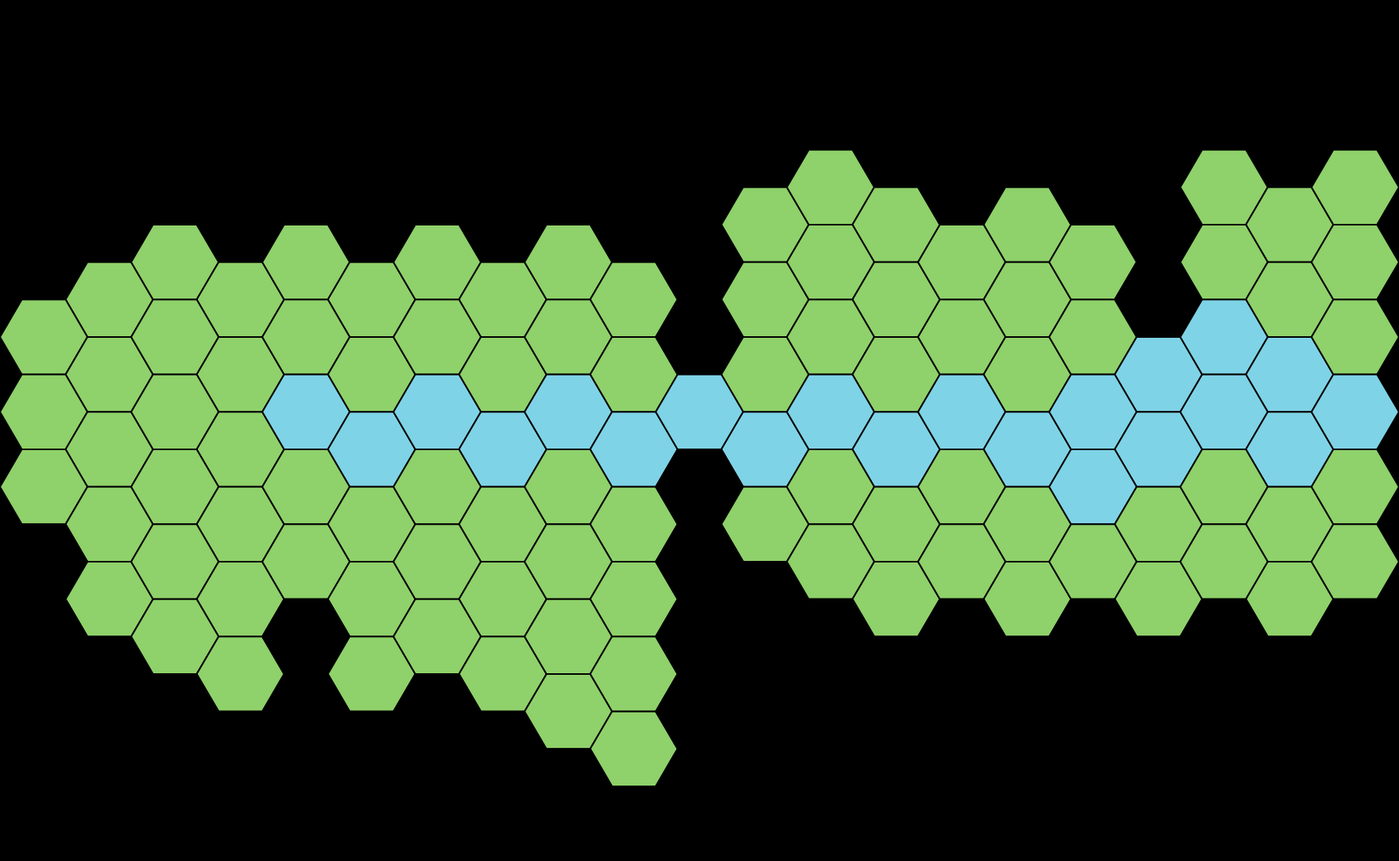
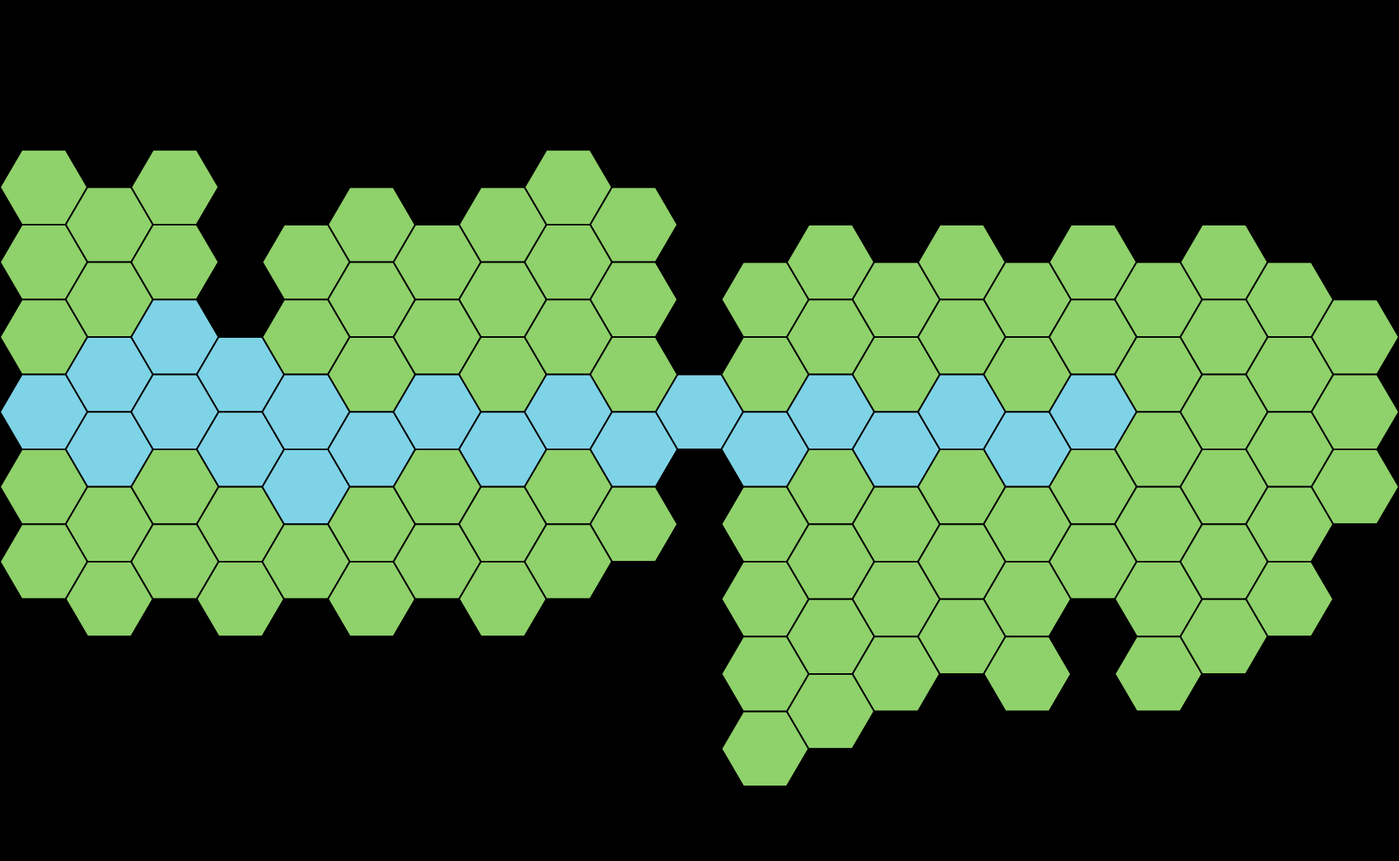
Su Altı Geçidi (yeralti-nehri): dünya yönüne aynalandı — görsel, webp, zemin tablosu, uçlar, gizli geçit tek commit
- Görsel (kullanıcı, 7f5ba86) + public/maps/col/yeralti-nehri.webp yeniden üretildi; önizleme ve prompt (npm run harita-referans).
- scripts/k32-yeralti-nehri.py AYNA: zemin, startZones (parti vaha/sağ, pusu orta) aynalı; harita/col/yeralti-nehri.json.
- data/seruven.json: uçlar aynalı (a Vaha sağ, b Mielikki sol), bayrak heykel-magarasi-kesfedildi, sureGun 0 (anında).
- seruven.ts linkFound/linkOpen: bayrakla iki yönde sınavsız, geri kilit yok; düğme 'Gizli geçit'.
- battleSave migrateFlippedMaps: eski yönde zeminli kayıtta yalnızca çizim bayrağı çevrilir (mekanik aynı).
- Test: src/journey/yeraltiAyna.test.ts. DECISIONS.md, CLAUDE.md; DENGE.md gece görüşü notu.
- typecheck, testler, build (ana parça 430,82 kB), check:harita 96/0, check:ses 15/0.

Claude-Session: https://claude.ai/code/session_01SsbfMzA823QzFotxpXSZKv

diff --git a/src/journey/yeraltiAyna.test.ts b/src/journey/yeraltiAyna.test.ts
@@ -1,0 +1,82 @@
+/**
+ * 2026-11-03: Yeraltı Nehri (Su Altı Geçidi) dünya haritası yönüne göre aynalandı: şelale ve taş yüz SOLDA (Orman /
+ * Mielikki Gölü), vaha kumu SAĞDA (Çöl). Zemin, başlangıç bölgeleri ve Serüven bağlantı uçları aynalı; şelale geçidi
+ * bayrağı bağlantıyı iki yönde açar; eski kayıtların çizimi `migrateFlippedMaps` ile eski yöne döner.
+ */
+import { describe, expect, it } from 'vitest';
+import { getMap } from '../map/maps';
+import { terrainOf } from '../map/terrain';
+import { executeSeruven, linkById, linkCrossable, linkOpen, type SeruvenCommand, type SeruvenState } from './seruven';
+import { linkSession } from '../app/seruvenBattle';
+import { migrateFlippedMaps } from '../app/battleSave';
+import { partyAt } from '../sim/balance';
+import type { BattleEvent } from '../battle';
+
+/** Aynalamadan önceki zemin (scripts/k32-yeralti-nehri.py `T`). */
+const ESKI = [
+  '#####################', '#####################', '###########...#.##...', '#.........#......#...', '..........#......nnn.',
+  '....nnnnnnnnnnnnnnnnn', '..........#.....n....', '#.........##.........', '##..#.....###########', '########..###########',
+  '#####################',
+];
+const m = getMap('yeralti-nehri');
+
+type G = { state: SeruvenState };
+const begin = (): G => {
+  const r = executeSeruven(null, { type: 'start', id: 's', seed: 1, toggles: { irkBaslangic: false }, party: partyAt(3).map((sh, i) => ({ id: `p${i + 1}`, name: sh.name, sheet: sh })) });
+  if (!r.ok) throw new Error(r.error);
+  return { state: r.state };
+};
+const step = (g: G, cmd: SeruvenCommand): G => { const r = executeSeruven(g.state, cmd); if (!r.ok) throw new Error(r.error); return { state: r.state }; };
+const atNode = (page: string, node: string, flags: string[] = [], pusu = false): SeruvenState => {
+  const g = pusu ? step(begin(), { type: 'set_toggle', key: 'koridorPususu', on: true }) : begin();
+  return { ...g.state, page, at: node, flags };
+};
+const link = linkById('yeralti-nehri')!;
+
+describe('Yeraltı Nehri aynalandı (Su Altı Geçidi)', () => {
+  it('zemin eski zeminin yatay aynası (21×11, odd-q tek sütun); parti bölgesi vaha tarafında (sağ), başlangıçlar geçilebilir', () => {
+    expect([m.size.cols, m.size.rows]).toEqual([21, 11]);
+    expect(m.tiles).toEqual(ESKI.map((r) => [...r].reverse().join('')));
+    expect(m.startZones.players.every((h) => h.col >= 18)).toBe(true);
+    for (const h of [...m.startZones.players, ...m.startZones.enemies]) expect(terrainOf(m.tiles[h.row]![h.col]!).movement).not.toBe('blocked');
+  });
+
+  it('bağlantı uçları: a (Vaha) sağda, b (Mielikki Gölü) solda; anında geçit (0 gün); keşif bayrağı şelale geçidi', () => {
+    expect(link.uclar.a.every(([c]) => c >= 19)).toBe(true);
+    expect(link.uclar.b.every(([c]) => c <= 3)).toBe(true);
+    expect([link.sureGun, link.bayrak]).toEqual([0, 'heykel-magarasi-kesfedildi']);
+    for (const [c, r] of [...link.uclar.a, ...link.uclar.b]) expect(terrainOf(m.tiles[r - 1]![c - 1]!).movement).not.toBe('blocked');
+  });
+
+  it('Orman\'dan giren şelale tarafında (sol), Çöl\'den giren vaha tarafında (sağ) başlar; çıkış karşı uçta', () => {
+    for (const [page, node, west] of [['orman', 'mielikki-golu', true], ['col', 'vaha', false]] as const) {
+      const s = linkSession(atNode(page, node, ['heykel-magarasi-kesfedildi']), 'yeralti-nehri', () => 0.5)!;
+      const party = Object.values(s.state.combatants).filter((c) => c.side === 'party' && c.pos);
+      expect(party.length).toBeGreaterThan(0);
+      expect(party.every((c) => (west ? c.pos!.col <= 2 : c.pos!.col >= 18))).toBe(true);
+      expect(s.state.explore!.exits.every((h) => (west ? h.col >= 18 : h.col <= 2))).toBe(true);
+    }
+  });
+
+  it('şelale geçidini bulan (bayrak) iki yönde sınavsız geçer, geri kilit uygulanmaz; bayraksız Orman ucunda kapalı', () => {
+    const found = atNode('orman', 'mielikki-golu', ['heykel-magarasi-kesfedildi']);
+    expect([linkOpen(found, link), linkCrossable(found, link)]).toEqual([true, true]);
+    const none = atNode('orman', 'mielikki-golu');
+    expect([linkOpen(none, link), linkCrossable(none, link)]).toEqual([false, false]);
+    expect(executeSeruven(atNode('col', 'vaha', ['heykel-magarasi-kesfedildi']), { type: 'link_check', link: 'yeralti-nehri', roll: 20 }).ok).toBe(false);
+  });
+
+  it('eski kayıt: zemini eski yönde olan savaşın çizim bayrağı çevrilir (görsel eski zemine oturur); yeni kayıt değişmez', () => {
+    const s = linkSession(atNode('col', 'vaha', ['heykel-magarasi-kesfedildi']), 'yeralti-nehri', () => 0.5)!;
+    const start = s.events.find((e) => e.type === 'battle_started') as Extract<BattleEvent, { type: 'battle_started' }>;
+    expect(migrateFlippedMaps([start])).toEqual([start]);
+    const old = { ...start, state: { ...start.state, map: { ...start.state.map!, tiles: [...ESKI], mirrored: false } } };
+    const [mig] = migrateFlippedMaps([old]) as Array<typeof start>;
+    expect(mig!.state.map!.mirrored).toBe(true);
+    expect(mig!.state.map!.tiles).toEqual(ESKI);
+    expect(getMap('yeralti-nehri', { mirrored: true }).tiles).toEqual(ESKI);
+    // Eski aynalı kayıt (zemini bugünkü yönde): bayrak kalkar.
+    const oldMirrored = { ...start, state: { ...start.state, map: { ...start.state.map!, mirrored: true } } };
+    expect((migrateFlippedMaps([oldMirrored]) as Array<typeof start>)[0]!.state.map!.mirrored).toBe(false);
+  });
+});

diff --git a/src/journey/seruven.ts b/src/journey/seruven.ts
@@ -40,6 +40,8 @@ export interface SeruvenLink {
   /** b → a yönü bu düğüm tamamlanmadan kapalı (Game Master "Serbest gezinti" açar). */ geriKilit?: string;
   /** Koridor haritasında uçların altıgenleri (1 tabanlı): a ucundan girilir, b ucunda çıkılır (ters yönde tersi). */
   uclar: { a: Array<[number, number]>; b: Array<[number, number]> };
+  /** Su Altı Geçidi: bu keşif bayrağı alınmışsa bağlantı sınavsız ve iki yönde açık (`geriKilit` uygulanmaz). */ bayrak?: string;
+  /** Yolculuk süresi (gün). 0 = anında geçit (Su Altı Geçidi; gün sayacı ilerlemez); > 0 düğmede gösterilir. */ sureGun?: number;
 }
 export interface SeruvenGate { x: number; y: number; requires: string[]; all?: boolean; to?: string }
 export interface SeruvenPage {
@@ -271,7 +273,7 @@ export function executeSeruven(state: SeruvenState | null, cmd: SeruvenCommand):
     case 'link_check': {
       const link = linkById(cmd.link);
       if (!link || !linkAt(state, link)) return fail('Burada bağlantı yok.');
-      if (state.links?.includes(link.id)) return fail('Bağlantı zaten açık.');
+      if (linkOpen(state, link)) return fail('Bağlantı zaten açık.');
       if (!state.done.includes(nodeKey(link.a.page, link.a.node))) return fail('Önce bu düğümü tamamla.');
       if (state.linkTry?.[link.id] !== undefined && (state.rests ?? 0) <= (state.linkTry[link.id] ?? 0)) return fail('Yeniden denemek için uzun dinlenme gerekir.');
       if (toggleOn(state, 'yeraltiNehriAc')) return done(state, [{ type: 'seruven_link_checked', link: link.id, total: 0, dc: link.dc, success: true, by: '' }]);
@@ -387,11 +389,17 @@ export const linkById = (id: string): SeruvenLink | undefined => (SERUVEN.baglan
 /** Parti bu bağlantının bir ucunda mı. */
 export const linkAt = (s: SeruvenState, l: SeruvenLink): boolean =>
   (s.page === l.a.page && s.at === l.a.node) || (s.page === l.b.page && s.at === l.b.node);
+/** Su Altı Geçidi: bağlantının keşif bayrağı alınmış mı. */
+export const linkFound = (s: SeruvenState, l: SeruvenLink): boolean => !!l.bayrak && s.flags.includes(l.bayrak);
+/** Bağlantı açık mı: beceri sınavıyla bulunmuş ya da keşif bayrağı alınmış. */
+export const linkOpen = (s: SeruvenState, l: SeruvenLink): boolean => !!s.links?.includes(l.id) || linkFound(s, l);
 /** Bulunulan düğümdeki bağlantılar. */
 export const linksHere = (s: SeruvenState): SeruvenLink[] => (SERUVEN.baglantilar ?? []).filter((l) => linkAt(s, l));
 /** Bağlantıdan geçilebilir mi: açık, partinin bulunduğu uçta; b → a yönü `geriKilit` tamamlanmadan kapalı (Serbest gezinti açar). */
 export function linkCrossable(s: SeruvenState, l: SeruvenLink): boolean {
-  if (!s.links?.includes(l.id) || !linkAt(s, l)) return false;
+  if (!linkOpen(s, l) || !linkAt(s, l)) return false;
+  // Su Altı Geçidi: şelale geçidinden keşfedilen bağlantı iki yönde açık.
+  if (linkFound(s, l)) return true;
   const back = s.page === l.b.page && s.at === l.b.node;
   return !back || !l.geriKilit || s.done.includes(l.geriKilit) || toggleOn(s, 'serbestGezinti');
 }

diff --git a/src/screens/SeruvenScreen.tsx b/src/screens/SeruvenScreen.tsx
@@ -6,7 +6,7 @@
  */
 import { useEffect, useMemo, useRef, useState } from 'react';
 import {
-  SERUVEN, TOGGLE_KEYS, executeSeruven, gateOpen, prevPage, levelXp, linkCrossable, linksHere, nodeKey, nodeOpen, nodeStop, nodeVisible, pageById, pageOrder, toggleOn,
+  SERUVEN, TOGGLE_KEYS, executeSeruven, gateOpen, prevPage, levelXp, linkCrossable, linkFound, linkOpen, linksHere, nodeKey, nodeOpen, nodeStop, nodeVisible, pageById, pageOrder, toggleOn,
   type SeruvenCommand, type SeruvenEvent, type SeruvenNode, type SeruvenPage, type SeruvenState,
 } from '../journey/seruven';
 import { seferById } from '../journey/sefer';
@@ -251,7 +251,7 @@ export function PageView(props: { state: SeruvenState; run: (c: SeruvenCommand) 
             disabled={!gateOpen(state, page, page.portal) || walking} onClick={(e) => { e.stopPropagation(); go('portal'); }}>◎</button>
         )}
         {/* Kuyruk 32: açık bağlantının (yeraltı nehri) uçlarında su damlası. */}
-        {(SERUVEN.baglantilar ?? []).filter((l) => state.links?.includes(l.id)).flatMap((l) => [l.a, l.b]).filter((u) => u.page === page.id).map((u) => {
+        {(SERUVEN.baglantilar ?? []).filter((l) => linkOpen(state, l)).flatMap((l) => [l.a, l.b]).filter((u) => u.page === page.id).map((u) => {
           const n = page.nodes.find((x) => x.id === u.node);
           return n ? <span key={`su-${u.node}`} className="seruven-deco water" style={pct({ x: n.x + 0.03, y: n.y - 0.05 })} aria-hidden="true">💧</span> : null;
         })}
@@ -392,13 +392,13 @@ function LinkActions(props: { state: SeruvenState; run: (c: SeruvenCommand) => b
   return (
     <>
       {linksHere(state).map((l) => {
-        const open = state.links?.includes(l.id);
+        const open = linkOpen(state, l);
         const aDone = state.done.includes(nodeKey(l.a.page, l.a.node));
         const tried = state.linkTry?.[l.id];
         const wait = tried !== undefined && (state.rests ?? 0) <= tried;
         if (open) {
           return linkCrossable(state, l)
-            ? <p key={l.id}><button type="button" className="cta" onClick={() => props.onBattle(`link:${l.id}`)}>{S.riverGo}</button></p>
+            ? <p key={l.id}><button type="button" className="cta" onClick={() => props.onBattle(`link:${l.id}`)}>{linkFound(state, l) ? S.secretPass : S.riverGo}{l.sureGun ? ` ${S.riverDays(l.sureGun)}` : ''}</button></p>
             : <p key={l.id} className="mute">{S.riverBack}</p>;
         }
         if (!aDone || state.page !== l.a.page) return null;

diff --git a/src/app/battleSave.ts b/src/app/battleSave.ts
@@ -4,6 +4,7 @@
  * JSON ya da oynatılamayan günlük hata fırlatmaz, "yüklenemedi" sonucu döner.
  */
 import { replay, type BattleEvent } from '../battle';
+import { getMap } from '../map/maps';
 import { createSession, type Session } from '../ui/session';
 import { externalSubclasses } from '../rules/subclasses';
 
@@ -59,13 +60,34 @@ export function restoreSession(text: string | null): Restored {
     const file = JSON.parse(text) as Partial<SaveFile>;
     if (!LOADABLE_VERSIONS.includes(file.version as number)) return { ok: false, error: `Kayıt yüklenemedi: sürüm ${String(file.version)} desteklenmiyor.` };
     if (!Array.isArray(file.events) || file.events.length === 0) return { ok: false, error: 'Kayıt yüklenemedi: olay günlüğü boş.' };
-    const state = replay(file.events);
+    const events = migrateFlippedMaps(file.events);
+    const state = replay(events);
     const loaded = new Set(externalSubclasses().map((s) => s.pack));
     const missing = (Array.isArray(file.content) ? file.content : []).filter((id) => !loaded.has(id));
-    return { ok: true, session: createSession(state, file.events), savedAt: file.savedAt ?? '', ...(missing.length ? { missingContent: missing } : {}) };
+    return { ok: true, session: createSession(state, events), savedAt: file.savedAt ?? '', ...(missing.length ? { missingContent: missing } : {}) };
   } catch {
     return { ok: false, error: 'Kayıt yüklenemedi: dosya bozuk.' };
   }
+}
+
+/**
+ * 2026-11-03 (Su Altı Geçidi): harita JSON'u yerinde aynalandıysa (`yeralti-nehri`, `yonCevrildi`) eski kayıtta başlangıç
+ * zemini haritanın kaydedilen yöndeki zeminiyle değil ters yöndekiyle tutar. Zemin ve kurallar olaydan oynar (mekanik
+ * aynı); yalnızca çizim bayrağı (`map.mirrored`: görsel CSS çevirisi ve `getMap` örtüleri) çevrilir ki görsel eski zemine
+ * otursun. Yeni kayıt ve zemini tutan kayıt değişmez.
+ */
+export function migrateFlippedMaps(events: BattleEvent[]): BattleEvent[] {
+  return events.map((e) => {
+    if (e.type !== 'battle_started' || !e.state.map) return e;
+    const m = e.state.map;
+    try {
+      const same = (o: boolean) => getMap(m.id, { variantId: m.variantId, mirrored: o }).tiles.join('\n') === m.tiles.join('\n');
+      if (same(m.mirrored) || !same(!m.mirrored)) return e;
+      return { ...e, state: { ...e.state, map: { ...m, mirrored: !m.mirrored } } };
+    } catch {
+      return e;
+    }
+  });
 }
 
 /** Kaydeder; depolama yoksa ya da doluysa false. */

diff --git a/src/i18n/strings.en.ts b/src/i18n/strings.en.ts
@@ -656,7 +656,7 @@ export const en: Strings = {
     collarOn: 'Spell-suppressing collar', collarHelp: 'No spellcasting; class features work. The key is in the warden\'s tower, or the White City temple removes it.',
     hubTemple: 'Temple', collarPay: (n: number) => `Remove the collar (${n} gold)`, collarServe: 'Serve the temple (collar removed, time passes)',
     crimeJob: 'the job', crimeRaid: 'guard raid', crimeStart: 'Start the job', crimeResist: 'Resist the raid', crimeSurrender: 'Surrender', soon: 'Coming soon', soonNote: 'Settlement: no battle map yet (filled in a later task). The road passes through.', soonGm: 'Game Master note: the settlement card arrives in Queue 34.',
-    riverFind: (dc: number) => `Search for the underground river (Survival or Nature, DC ${dc})`, riverGo: 'Go down the underground river', riverRest: 'A long rest is needed before trying again.',
+    riverFind: (dc: number) => `Search for the underground river (Survival or Nature, DC ${dc})`, riverGo: 'Go down the underground river', riverRest: 'A long rest is needed before trying again.', riverDays: (n: number) => `(${n} days)`, secretPass: 'Secret passage',
     riverBack: 'The river path is closed this way (finish the Swamp first).',
     menu: 'Adventure', menuDesc: 'Travel the continent east to west page by page; fight at nodes with a lasting party. No Game Master needed.',
     title: 'Adventure', start: 'Begin the adventure', party: 'Party', none: 'Create characters on the Player screen first.', unavailable: 'cannot fight',

diff --git a/src/i18n/strings.ts b/src/i18n/strings.ts
@@ -489,7 +489,7 @@ const tr = {
     collarOn: 'Büyü bastırıcı tasma', collarHelp: 'Büyü yapılamaz; sınıf özellikleri çalışır. Anahtarı müdür kulesinde ya da Beyaz Şehir tapınağında çıkar.',
     hubTemple: 'Tapınak', collarPay: (n: number) => `Tasmayı çıkar (${n} altın)`, collarServe: 'Tapınağa hizmet et (tasma çıkar, zaman geçer)',
     crimeJob: 'iş', crimeRaid: 'muhafız baskını', crimeStart: 'İşe başla', crimeResist: 'Baskına karşı koy', crimeSurrender: 'Teslim ol', soon: 'Yakında', soonNote: 'Yerleşim: savaş haritası henüz yok (sonraki görevde dolacak). Yol buradan geçer.', soonGm: 'Game Master notu: yerleşim kartı Kuyruk 34’te dolacak.',
-    riverFind: (dc: number) => `Yeraltı nehri girişini ara (Hayatta Kalma ya da Doğa, DC ${dc})`, riverGo: 'Yeraltı nehrine in', riverRest: 'Yeniden denemek için uzun dinlenme gerekir.',
+    riverFind: (dc: number) => `Yeraltı nehri girişini ara (Hayatta Kalma ya da Doğa, DC ${dc})`, riverGo: 'Yeraltı nehrine in', riverRest: 'Yeniden denemek için uzun dinlenme gerekir.', riverDays: (n: number) => `(${n} gün)`, secretPass: 'Gizli geçit',
     riverBack: 'Nehir yolu bu yönde kapalı (önce Bataklık).',
     menu: 'Serüven', menuDesc: 'Kıtayı doğudan batıya sayfa sayfa gez; düğümlerde savaş, parti durumu kalıcı. Game Master gerekmez.',
     title: 'Serüven', start: 'Serüvene başla', party: 'Parti', none: 'Önce Oyuncu ekranında karakter oluşturun.', unavailable: 'savaşamaz',

diff --git a/src/map/maps.ts b/src/map/maps.ts
@@ -85,6 +85,8 @@ export interface RawMap {
   /** Kuyruk 16 K16B: test/vitrin haritası (seçicide ayrı grup; denge ölçümlerine katılmaz). */
   /** Kuyruk 25: seçicide gizli. */
   gizli?: boolean;
+  /** 2026-11-03: JSON yerinde aynalandı (tarih); eski kayıtların çizim göçü `migrateFlippedMaps`. */
+  yonCevrildi?: string;
   /** Kuyruk 41b: yalnızca 1–5. seviye senaryosu: "Üst seviye" açıkken seçicide ve Serüven listesinde gizli. */
   ustSeviyeGizli?: boolean;
   vitrin?: boolean;

diff --git a/scripts/k32-yeralti-nehri.py b/scripts/k32-yeralti-nehri.py
@@ -2,6 +2,9 @@
 # 0 tabanlı etiketli ızgarasından (scripts/harita-etiket.ts) elle okundu: # kaya/boşluk (duvar), . kuru kıyı ve kum havuzu,
 # n sığ nehir (turkuaz şerit; taş basamaklar da n: sığ su zorlu zemin), sütun 10–11'de dar boğaz. Batı uç Vaha (Çöl) tarafı, doğu uç
 # Mielikki Gölü (Orman) tarafı. Gece varyantı yok, kısıtlı görüş yok. Serüven'e özel (seçicide gizli).
+# 2026-11-03: görsel dünya haritasındaki yöne göre aynalandı (şelale ve taş yüz SOLDA = Orman, vaha kumu SAĞDA = Çöl). Aşağıdaki T
+# ve konumlar eski (aynalanmamış) görselden okundu; yazılırken AYNA ile yatayda çevrilir (odd-q, 21 tek sütun: c → 20 − c). JSON'daki
+# `yonCevrildi` eski kayıtların çizim göçü içindir (src/app/battleSave.ts).
 import json, os
 ROOT = os.path.join(os.path.dirname(os.path.abspath(__file__)), '..')
 T = [
@@ -18,7 +21,9 @@ T = [
   "#####################",  # 10
 ]
 assert all(len(r) == 21 for r in T) and len(T) == 11
-def one(c, r): return [c + 1, r + 1]
+AYNA = True
+COLS = 21
+def one(c, r): return [(COLS - c) if AYNA else c + 1, r + 1]
 west = [one(c, r) for c, r in [(0, 4), (0, 5), (1, 4), (1, 5), (0, 6), (1, 6), (2, 4), (2, 6)]]
 east = [one(c, r) for c, r in [(20, 3), (20, 4), (20, 6), (19, 3), (19, 6), (20, 7), (19, 7), (18, 6)]]
 mid = [one(c, r) for c, r in [(13, 3), (14, 3), (13, 4), (14, 4), (13, 6), (14, 6), (12, 7), (13, 7)]]
@@ -26,16 +31,17 @@ d = {
   "id": "yeralti-nehri", "bolge": "col", "gorsel": "col/yeralti-nehri", "name": "Yeraltı Nehri", "nameEn": "Underground River",
   "environmentId": "yeralt-ma-ara", "orientation": "flat-top", "offset": "odd-q", "size": {"cols": 21, "rows": 11}, "hexFeet": 5,
   "gizli": True,
-  "startZones": {"players": {"colRange": [1, 3], "hexes": west}, "enemies": {"colRange": [12, 15], "hexes": mid},
-                 "note": "Kuyruk 32: parti batı uçtan (Vaha) girer; Orman'dan gelişte Serüven başlangıcı doğu uç (seruven.json bağlantı ucu)."},
+  "yonCevrildi": "2026-11-03",
+  "startZones": {"players": {"colRange": [19, 21], "hexes": west}, "enemies": {"colRange": [7, 10], "hexes": mid},
+                 "note": "Kuyruk 32 (2026-11-03 aynalandı): varsayılan parti doğu uçta (Vaha); Serüven bağlantısında başlangıç gelinen uçta (seruven.json uclar: a Vaha = doğu, b Mielikki = batı)."},
  
   "hide": {"terrain": {".": 0}, "adjacentTo": {"#": 0}, "cover": {".": "shadow"}, "note": "Mağara: kaya dibinde gizlenilir."},
   "variants": [{"id": "gunduz", "name": "Gündüz", "nameEn": "Day", "image": "maps/col/yeralti-nehri.webp", "rules": [], "effects": []}],
-  "tiles": T,
-  "notes": {"tasarim": "Kuyruk 32 M2: Vaha ↔ Mielikki Gölü arası yeraltı nehri koridoru. Ortada turkuaz sığ nehir (n), iki yanda kuru kıyı, sütun 10–11'de dar boğaz; batıda kum havuzu, doğuda yosunlu çıkış."},
+  "tiles": [r[::-1] for r in T] if AYNA else T,
+  "notes": {"tasarim": "Kuyruk 32 M2: Vaha ↔ Mielikki Gölü arası yeraltı nehri (Su Altı Geçidi) koridoru. Ortada turkuaz sığ nehir (n), iki yanda kuru kıyı, sütun 11–12'de dar boğaz; batıda şelale, taş yüz ve yosunlu çıkış (Orman), doğuda kum havuzu (Vaha). 2026-11-03: görsel ve zemin dünya haritası yönüne göre aynalandı."},
 }
 p = os.path.join(ROOT, 'harita', 'col', 'yeralti-nehri.json')
 json.dump(d, open(p, 'w'), ensure_ascii=False, indent=1); open(p, 'a').write('\n')
 print(p)
-# Serüven bağlantı uçları (data/seruven.json baglantilar[].uclar): batı = Vaha tarafı, doğu = Mielikki tarafı.
+# Serüven bağlantı uçları (data/seruven.json baglantilar[].uclar): a = Vaha tarafı, b = Mielikki tarafı (aynalı: a doğu, b batı).
 print(json.dumps({"a": west, "b": east}))

diff --git a/DECISIONS.md b/DECISIONS.md
@@ -2,6 +2,40 @@
 
 Projede alınan içerik ve kural kararlarının kaydı. En yeni karar en üstte.
 
+## 2026-11-03 — Gece görüşü sonrası denge notu (kod değişmedi)
+
+- **Giant Spider olduğu gibi kalır.** SRD 5.2.1'de yalnızca Darkvision 60 ft (eski kurallardaki Blindsight 10 ft yok). Game Master isterse düşman listesine koyar; Serüven zorluğu senaryo düşman listesiyle ayarlanır, canavar verisi değişmez.
+- **Gece görüşü kuralı (`nightVision`) varsayılan kapalı kalır.** Kale Gece'de Darkvision'sız Berserker ve Warrior Veteran yüzünden parti açıkça güçleniyor (%73 → %90, 20 tohum); Orman Gece'deki fark gürültü sınırında.
+- **Denge turuna ertelendi** ("Dungeondex öncesi tam test turu"): kullanıcı listesindeki 1 ve 2 numaralı denge maddeleri; canavar ve oyuncu Darkvision menzilinin veriden okunması (şu an hep 60 ft; 120 ft'lik değerler de 60 sayılıyor); `srdK19` kapalıyken canavar Blindsight/Truesight'ının okunmaması.
+
+## 2026-11-03 — Su Altı Geçidi = Yeraltı Nehri (`yeralti-nehri`): dünya haritası yönüne aynalama
+
+- Yeni harita eklenmedi. Orman (Mielikki Gölü) ile Çöl Vahası arasındaki su altı geçidi mevcut `yeralti-nehri`dir (21×11; görevde 15×7 yazıyordu, gerçek boyut 21×11).
+- **Görsel**: kullanıcı `harita/col/gorsel/yeralti-nehri.jpg`yi yatayda aynaladı; şelale ve taş yüz solda (Orman), vaha kumu sağda (Çöl).
+- **Zemin**: `scripts/k32-yeralti-nehri.py` eski tabloyu korur ve yazarken yatayda çevirir (`AYNA`; 0 tabanlı sütun c → 20 − c; 21 tek sütun olduğu için odd-q eşliği korunur).
+  - Başlangıç bölgeleri aynalandı: parti vaha ucunda (sağ, sütun 19–21), pusu ortada (sütun 7–10).
+  - Haritada ışık, nesne ve kural yok; notlar güncellendi.
+  - JSON'da `yonCevrildi: "2026-11-03"` (yalnızca belge).
+- **Aynalama bayrağının anlamı**:
+  - `map.mirrored` her zaman haritanın **güncel** JSON yönüne göredir; varsayılan yön artık aynalı yön.
+  - Yeni savaşlar aynalanmaz (Kuyruk 19 -2, kural sürümü 16); sürüm < 16 savaşta çalışma anı aynalama güncel yönü tersine çevirir.
+- **Eski kayıtlar** (`migrateFlippedMaps`, `src/app/battleSave.ts`, yüklemede):
+  - Zemin ve kurallar `battle_started` olayından oynar, mekanik değişmez.
+  - Başlangıç zemini haritanın kaydedilen yöndeki zeminiyle değil de ters yöndekiyle tutuyorsa yalnızca çizim bayrağı çevrilir. Böylece görsel (CSS çevirisi) ve `getMap` örtüleri eski zemine oturur.
+  - Genel kural: yerinde aynalanan her haritada çalışır, zemini tutan kayıtlara dokunmaz.
+- **Serüven `yeralti-nehri` bağlantısı**:
+  - Uçlar aynalandı: a = Vaha, sağ; b = Mielikki Gölü, sol. Orman'dan giren şelale tarafında, Çöl'den giren vaha tarafında başlar.
+  - Keşif: `bayrak: heykel-magarasi-kesfedildi` (Heykel Gölü şelale geçidinin, mevcut Heykel Mağarası keşif bayrağı). Bayrak alındıysa bağlantı sınavsız ve iki yönde açıktır; `geriKilit` uygulanmaz. Vahadan beceri sınavı (DC 13) eskisi gibi.
+  - `sureGun: 0` (2026-11-03 13:15 kararı; önce 3 önerilmişti): anında geçit, gün sayacı ilerlemez (Serüven'de zaten sayaç yok). Bayrakla bulunan geçidin düğmesi "Gizli geçit"; sınavla açılan yolda "Yeraltı nehrine in" kalır. `sureGun > 0` olursa düğmede "(N gün)" görünür. Game Master parametresi değil, veri alanı.
+  - Harita seçicide gizli (`gizli: true`, değişmedi).
+- **Uygulanmayanlar**: kuş uçuşu mesafe (≈139 mil) ve dünya haritası koordinatları (6170,2740 ↔ 8850,4460). `komsuluk-grafi-ve-deniz-yollari.md` depoda yok; Serüven kıta sayfası düzeni kullanıldı.
+- **Kullanım**:
+  - Serüven `yeralti-nehri` bağlantısı (Vaha ↔ Mielikki Gölü).
+  - Sim senaryosu `k32-yeralti-nehri`.
+  - `data/ses.json` ortam sesi, `data/monster-ortamlari.json` (Giant Frog, Crocodile).
+  - Testler: `seruven32.test.ts`, `genis.test.ts`, `maps.test.ts`.
+  - Derinlikler, Volkan ve Kale Baskını seferlerinde (`data/seferler.json`) kullanılmıyor.
+
 ## 2026-11-03 — Kuyruk 19 (7 kapanışı): SRD denetiminde kalan 8 canavar tepkisi (srdK19)
 
 Hepsi `srdK19` anahtarına ve kural sürümü 16'ya bağlı. Veri `data/monster-reactions.json`, motor `reactions.ts` ve `monsterAbilities.ts`, test `k19reactions.test.ts` (açık, kapalı, sürüm 15).

diff --git a/harita/col/prompt/yeralti-nehri.md b/harita/col/prompt/yeralti-nehri.md
@@ -6,8 +6,8 @@
 - **Hedef görsel boyutu:** **1781 × 1096 px** (en-boy 1.625). Gemini başka boyut verirse oran aynı kalmalı (ör. 3562 × 2192); içe aktarma küçültür.
 - **Gemini'ye eklenecek görseller (bu sırayla):**
   1. Yerleşim: `harita/col/onizleme/yeralti-nehri-izgarasiz.png` (düz renk; ızgaralı sürüm `yeralti-nehri-izgara.png` yalnızca senin kontrolün için).
-  2. Stil örneği: `public/maps/col/yeralti-nehri.webp` (aynı oyunun Klasik harita görseli).
-- **Tema:** Yeraltı nehri: mağara koridoru; batıda kum havuzu ve kökler, ortada turkuaz sığ nehir ve taş basamaklar, iki yanda kuru kıyı, ortada dar boğaz, doğuda yosunlu çıkış ve taş heykel.
+  2. Stil örneği: `public/maps/harita-orman-orman.webp` (aynı oyunun Klasik harita görseli).
+- **Tema:** (veride tema yok; harita/_ortak/harita-referans.json maps alanına ekleyin)
 - Çıktıyı `assets-ham/harita/col/yeralti-nehri.png` (ya da .jpg/.webp; tam üstten çizilmiş referans: `harita/col/gorsel/yeralti-nehri.jpg`) olarak kaydedip `npm run harita-gorsel -- yeralti-nehri` çalıştırın.
 
 ## Zemin anahtarı (referans renkleri)
@@ -28,8 +28,8 @@ LAYOUT: Follow the first attached image exactly. It is a colour-coded layout of 
 - #8fd16a = open ground: plain walkable ground: grass outdoors, packed earth or stone floor underground
 - #7fd3e6 = shallow water: shallow water or mud, ford stones visible, clearly wadeable
 
-THEME: An underground river: a cave corridor; a sand pool and roots to the west, a shallow turquoise river with stepping stones, dry banks, a narrow pass, a mossy exit and a stone statue to the east.
-LIGHTING: Mağara: kristal ve mantar ışıkları, doğu çıkışından gün ışığı.
+THEME: A battle map matching the layout above.
+LIGHTING: Neutral daylight from the upper left.
 
 CONSTRAINTS:
 - Output size 1781 x 1096 pixels (aspect ratio 1.625:1), or an exact multiple of it. Do not crop, pad or add borders; the art must fill the whole canvas edge to edge.

diff --git a/harita/belgeler/DENGE.md b/harita/belgeler/DENGE.md
@@ -2,6 +2,10 @@
 
 5. seviye 5 kişilik parti (Bor, Mira, Tavi, Sela, Kael), her senaryo 200 savaş, tohum 1–200, iki taraf da yapay zekâ ile. Komut: `npm run sim -- 200`. Hedef: parti galibiyeti %60–80. Canavar sayıları ve değerleri değiştirilmedi.
 
+## Gece görüşü kararı (2026-11-03, ölçüm yok)
+
+Gece görüşü kuralı kapalı kalır; Giant Spider değişmez. Darkvision menzili (hep 60 ft) ve 1–2 numaralı denge maddeleri denge turuna ertelendi (DECISIONS.md).
+
 ## Kuyruk 19 (8–10) — 11/15/20. seviye, K18-3 düşmanları, gece görüşü (2026-11-03)
 
 Kural: yalnızca kayıt, ayar yok. Standart parti (Bor Dwarf Fighter, Mira Elf Wizard, Tavi Human Cleric, Sela Halfling Rogue, Kael Elf Ranger).
